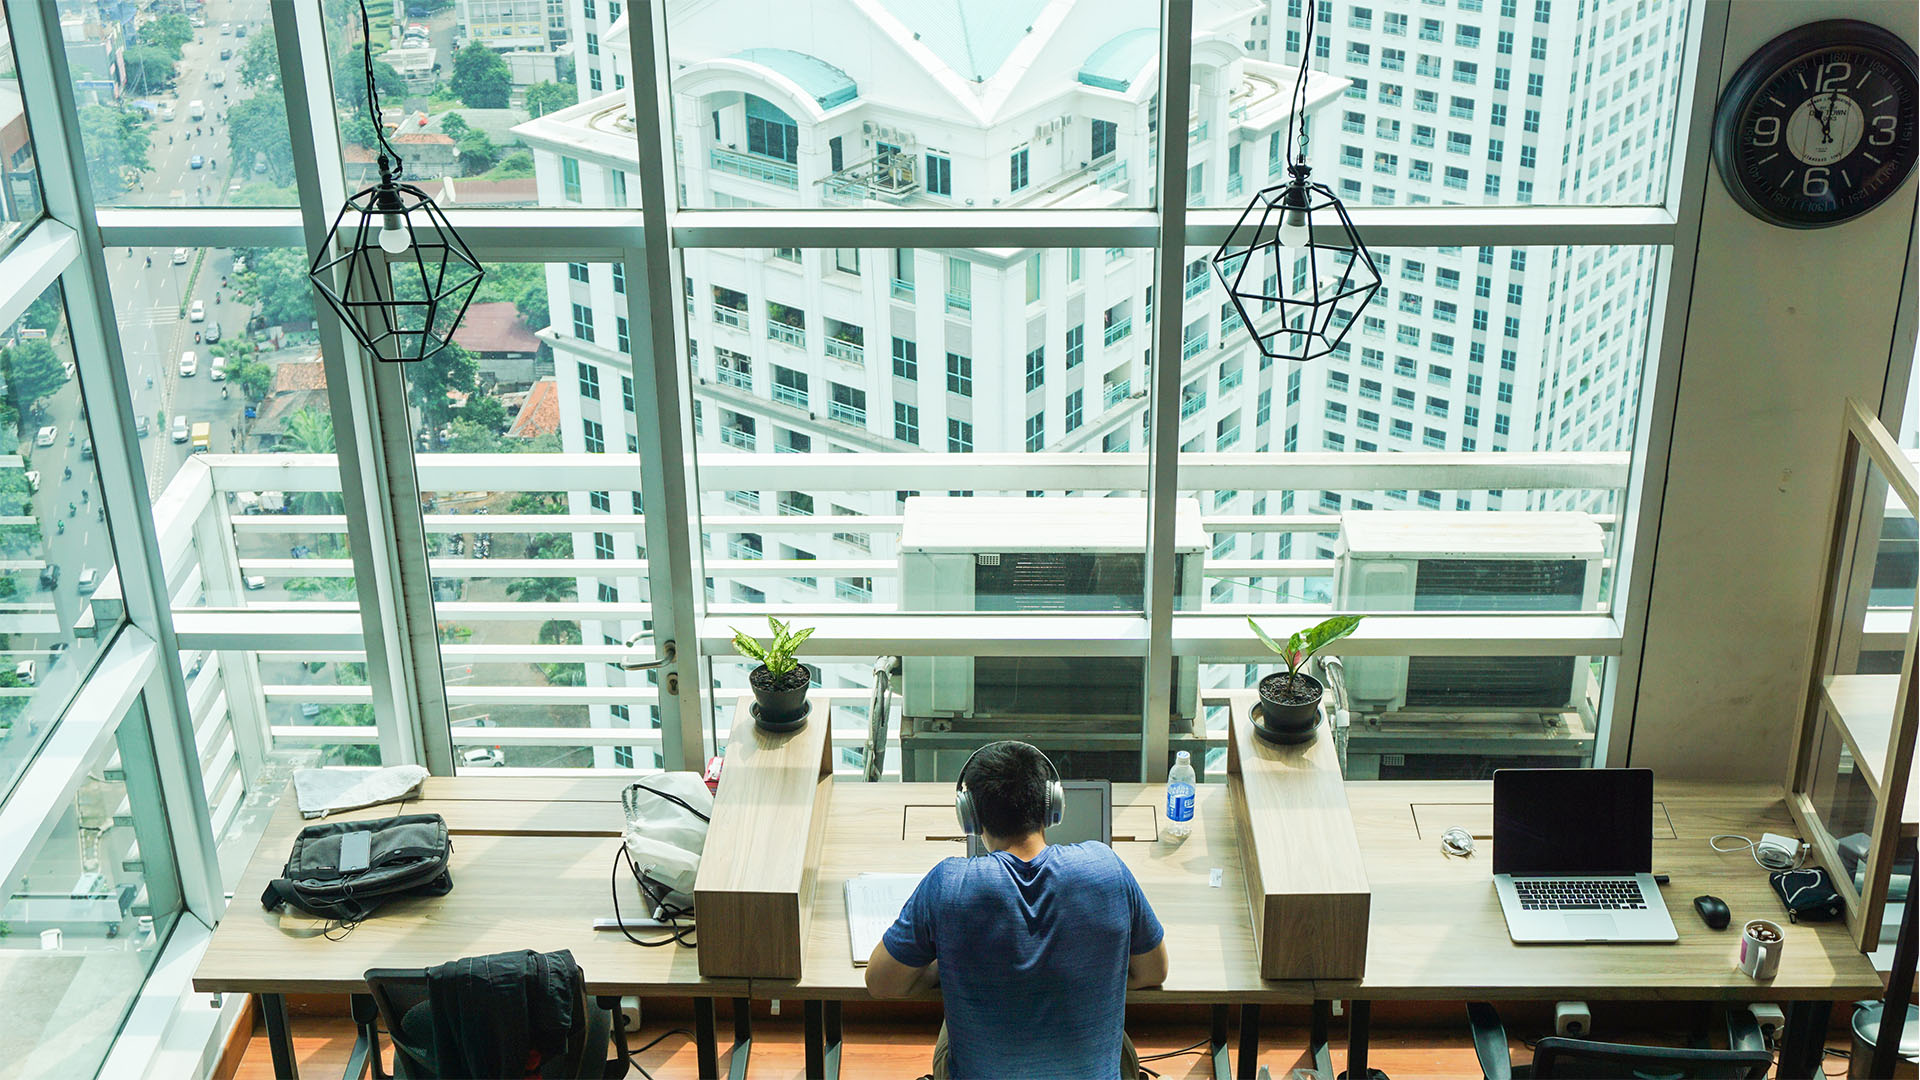
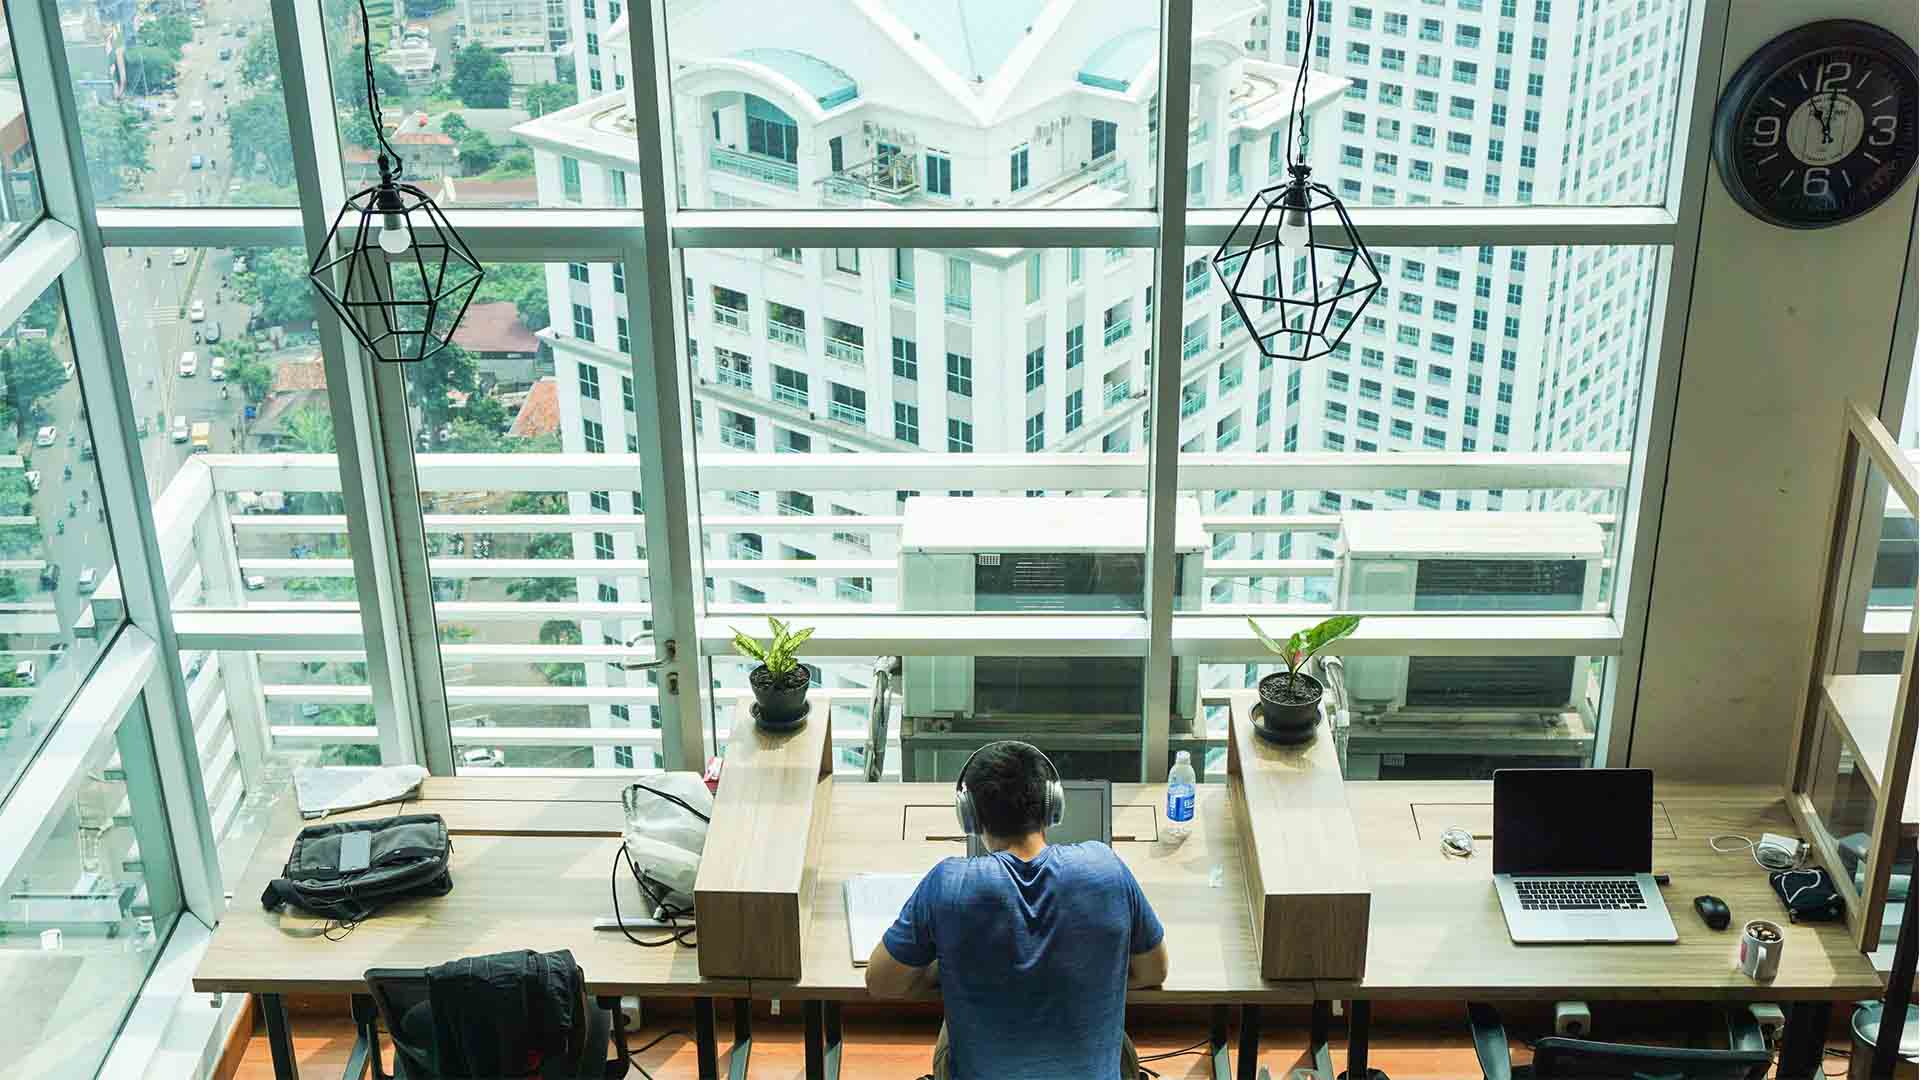
Compress background img, deduct faveicon

diff --git a/resources/views/home/index.blade.php b/resources/views/home/index.blade.php
@@ -16,23 +16,8 @@
     <meta name="description" content="We are a CTO-as-a-service company in Jakarta. We provide technological expertise from a CTO role in a pay-what-you-need modular model."/>
 
     <!-- ICON -->
-    <link rel="apple-touch-icon" sizes="57x57" href="{{ asset('images/icon/apple-icon-57x57.png') }}">
-    <link rel="apple-touch-icon" sizes="60x60" href="{{ asset('images/icon/apple-icon-60x60.png') }}">
-    <link rel="apple-touch-icon" sizes="72x72" href="{{ asset('images/icon/apple-icon-72x72.png') }}">
-    <link rel="apple-touch-icon" sizes="76x76" href="{{ asset('images/icon/apple-icon-76x76.png') }}">
-    <link rel="apple-touch-icon" sizes="114x114" href="{{ asset('images/icon/apple-icon-114x114.png') }}">
-    <link rel="apple-touch-icon" sizes="120x120" href="{{ asset('images/icon/apple-icon-120x120.png') }}">
-    <link rel="apple-touch-icon" sizes="144x144" href="{{ asset('images/icon/apple-icon-144x144.png') }}">
-    <link rel="apple-touch-icon" sizes="152x152" href="{{ asset('images/icon/apple-icon-152x152.png') }}">
-    <link rel="apple-touch-icon" sizes="180x180" href="{{ asset('images/icon/apple-icon-180x180.png') }}">
-    <link rel="icon" type="image/png" sizes="192x192" href="{{ asset('images/icon/android-icon-192x192.png') }}">
-    <link rel="icon" type="image/png" sizes="32x32" href="{{ asset('images/icon/favicon-32x32.png') }}">
-    <link rel="icon" type="image/png" sizes="96x96" href="{{ asset('images/icon/favicon-96x96.png') }}">
-    <link rel="icon" type="image/png" sizes="16x16" href="{{ asset('images/icon/favicon-16x16.png') }}">
-    <link rel="manifest" href="{{ asset('images/icon/manifest.json') }}">
-    <meta name="msapplication-TileColor" content="#ffffff">
-    <meta name="msapplication-TileImage" content="{{ asset('images/icon/ms-icon-144x144.png') }}">
-    <meta name="theme-color" content="#ffffff">
+    <link rel="apple-touch-icon" href="{{ asset('images/icon/apple-icon-152x152.png') }}">
+    <link rel="icon" type="image/png" href="{{ asset('images/icon/favicon-96x96.png') }}">
 
     <!-- CSS -->
     <link rel="stylesheet" href="{{ mix('css/app.css') }}">
